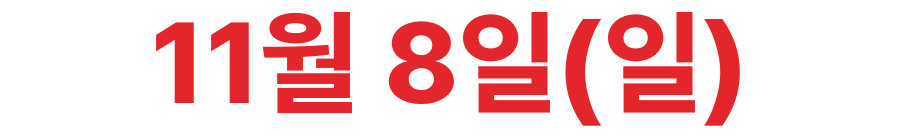
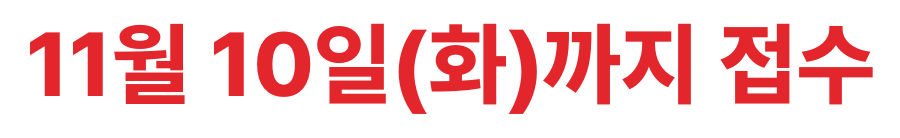
A안 일정 적용: 매월 1~10일 접수, 20일 정리표, 25일 초안, 말일 발급
- mockup: 접수중/기간 아님 표시, 기간 외 신청 잠금, 처리 절차 화살표, 참여사업명 검사 삭제
- deadline.py: 접수 상태 이미지(1~10일 '○월 10일까지 접수', 이후 '다음 달 1일~10일 접수')

Claude-Session: https://claude.ai/code/session_01JgBZWParL1vgAyvDdDWFMD

diff --git a/mockup/index.html b/mockup/index.html
@@ -31,6 +31,22 @@ table.kv{width:100%;border-collapse:collapse;border-top:2px solid var(--ink);fon
 table.kv th,table.kv td{border-bottom:1px solid var(--line2);padding:12px 12px;text-align:left;vertical-align:top}
 table.kv th{width:110px;background:#f6f7f9;font-weight:700;color:var(--ink2);white-space:nowrap}
 .due-big{font-size:30px;font-weight:800;color:var(--red);letter-spacing:-.03em;line-height:1.2}
+.state{display:inline-block;font-size:14px;font-weight:800;padding:4px 10px;border-radius:2px;margin-right:10px;vertical-align:5px}
+.state.on{background:var(--navy);color:#fff}.state.off{background:#9aa3af;color:#fff}
+.due-big.off{color:var(--ink2);font-size:22px}
+.small-red{font-size:13px;color:var(--red);font-weight:700}
+ol.arrow{list-style:none;margin:0;padding:0;display:flex;align-items:stretch;gap:0}
+ol.arrow li{flex:1;position:relative;background:var(--navy-bg);border:1px solid #c9d3e8;padding:12px 10px 12px 22px;margin-right:14px;text-align:left}
+ol.arrow li:first-child{padding-left:12px}
+ol.arrow li:last-child{margin-right:0;background:var(--navy);border-color:var(--navy);color:#fff}
+ol.arrow li:not(:last-child):after{content:"";position:absolute;right:-14px;top:50%;transform:translateY(-50%);border:14px solid transparent;border-left:12px solid var(--navy);border-right:0;width:0;height:0;z-index:1}
+ol.arrow b{display:block;font-size:15px;letter-spacing:-.03em}
+ol.arrow span{display:block;font-size:17px;font-weight:800;color:var(--red);margin-top:2px}
+ol.arrow li:last-child span{color:#fff}
+ol.arrow small{display:block;font-size:12px;color:var(--ink3);margin-top:2px}
+ol.arrow li:last-child small{color:#c9d4ea}
+.menu button.primary.closed{background:#e5e8ec;border-color:#cfd5dd;color:var(--ink3);cursor:not-allowed}
+.menu button.primary.closed small,.menu button.primary.closed .ar{color:var(--ink3)}
 .lead{font-size:17px;font-weight:700;line-height:1.6;margin:16px 0 0;padding:14px 16px;background:var(--navy-bg);border-left:4px solid var(--navy)}
 .lead b{color:var(--navy)}
 /* 홈 메뉴 */
@@ -128,6 +144,7 @@ pre.body{margin:0;white-space:pre-wrap;font:inherit;font-size:14px;line-height:1
 .stopbox .mk{display:inline-block;font-size:14px;font-weight:800;color:#fff;background:var(--red);padding:5px 12px;border-radius:2px;margin-bottom:14px}
 .stopbox h2{margin:0 0 10px;font-size:24px;letter-spacing:-.03em}
 .stopbox p{margin:0 0 6px;font-size:17px;line-height:1.6;color:var(--ink2)}
+.stopbox .redo{margin-top:12px;width:100%;min-height:50px;border:1px solid var(--navy);background:#fff;color:var(--navy);font-size:16px;font-weight:800;border-radius:4px}
 .stopbox .act{margin-top:16px;padding:14px;background:#f6f7f9;font-size:17px;font-weight:800;color:var(--ink)}
 /* 검사 */
 .seg{display:grid;grid-template-columns:1fr 1fr;border:1px solid var(--navy);border-radius:4px;overflow:hidden;margin-bottom:16px}
@@ -146,9 +163,12 @@ table.ox em{font-style:normal;font-size:12px;font-weight:800;color:var(--red);ma
 .toast{position:fixed;left:50%;top:calc(14px + env(safe-area-inset-top));transform:translate(-50%,-16px);background:var(--ink);color:#fff;font-size:15px;font-weight:700;padding:11px 18px;border-radius:3px;opacity:0;transition:.2s;pointer-events:none;z-index:9}
 .toast.show{opacity:1;transform:translate(-50%,0)}
 @media (max-width:600px){
+  ol.arrow{flex-direction:column}
+  ol.arrow li{margin:0 0 14px;padding-left:12px}ol.arrow li:last-child{margin:0}
+  ol.arrow li:not(:last-child):after{right:auto;left:50%;top:auto;bottom:-14px;transform:translateX(-50%);border:12px solid transparent;border-top:12px solid var(--navy);border-bottom:0}
   .head h1{font-size:20px}.q{font-size:22px}
   .flow{grid-template-columns:1fr 1fr}.flow div:nth-child(2){border-right:0}.flow div:nth-child(-n+2){border-bottom:1px solid var(--line2)}
-  table.kv th{width:88px}.due-big{font-size:26px}
+  table.kv th{width:88px}.due-big{font-size:22px}.state{vertical-align:3px}
   .copy-t th{width:auto;display:block;border-bottom:0;padding-bottom:4px;background:none}.copy-t tr{display:grid;grid-template-columns:1fr auto;border-bottom:1px solid var(--line2)}.copy-t th{grid-column:1/-1}.copy-t td{border:0}
   .dock>div{grid-template-columns:90px 1fr}
 }
@@ -166,9 +186,10 @@ table.ox em{font-style:normal;font-size:12px;font-weight:800;color:var(--red);ma
 <!-- 홈 -->
 <section class="screen" data-s="home">
   <div class="panel">
-    <p class="panel-title">접수 일정</p>
+    <p class="panel-title">접수 안내</p>
     <table class="kv">
-      <tr><th>접수 마감</th><td><span class="due-big" id="h-due"></span></td></tr>
+      <tr><th>접수 상태</th><td><span class="state" id="h-state"></span><span class="due-big" id="h-due"></span></td></tr>
+      <tr><th>접수 기간</th><td><b>매월 1일 ~ 10일</b><br><span class="small-red">기간 외에 보낸 신청은 처리하지 않으며 회신하지 않습니다.</span></td></tr>
       <tr><th>일괄 발급</th><td id="h-issue"></td></tr>
       <tr><th>접수 방법</th><td>KBS 웹메일만 접수 (KOBIS 메일 불가)</td></tr>
     </table>
@@ -176,17 +197,12 @@ table.ox em{font-style:normal;font-size:12px;font-weight:800;color:var(--red);ma
   </div>
 
   <div class="menu">
-    <button class="primary" data-go="assoc" id="m-apply"><span class="no">1</span><span class="tx">신청 메일 작성<small>질문에 답하면 신청 메일이 자동으로 작성됩니다</small></span><span class="ar">시작 ›</span></button>
-    <button data-go="write" id="m-write"><span class="no">2</span><span class="tx">참여사업명 검사<small>경력 정리표를 받은 신청자가 초안을 회신하기 전에 사용합니다</small></span><span class="ar">열기 ›</span></button>
+    <button class="primary" data-go="assoc" id="m-apply"><span class="tx">신청 메일 작성<small id="m-apply-sub">질문에 답하면 신청 메일이 자동으로 작성됩니다</small></span><span class="ar" id="m-apply-ar">시작 ›</span></button>
   </div>
 
   <div class="panel">
     <p class="panel-title">처리 절차 (매월 1회)</p>
-    <div class="flow">
-      <div class="me"><b>1주</b><strong>신청 접수</strong><span>일요일 마감</span></div>
-      <div><b>2주</b><strong>경력 정리표 발송</strong><span>담당자 → 신청자</span></div>
-      <div class="me"><b>3주</b><strong>초안 작성·회신</strong><span>신청자가 협회 양식으로 작성</span></div>
-      <div><b>4주</b><strong>검토·직인·발급</strong><span>인사운영부 확인, 총무부 직인</span></div>
+    <ol class="arrow" id="flow"></ol>
     </div>
   </div>
 
@@ -196,7 +212,7 @@ table.ox em{font-style:normal;font-size:12px;font-weight:800;color:var(--red);ma
   </div>
   <div class="links">
     <a href="../">일정·인정 기준·자주 묻는 질문</a>
-    <a href="./mail.html" class="review">[검토용] 2주차 경력 정리표 메일 예시</a>
+    <a href="./mail.html" class="review">[검토용] 경력 정리표 메일 예시</a>
   </div>
 </section>
 
@@ -215,7 +231,7 @@ table.ox em{font-style:normal;font-size:12px;font-weight:800;color:var(--red);ma
   <p class="q-sub"><b id="elec-name"></b>에는 인정되는 경력이 다릅니다.</p>
   <div class="warnbox"><h3>송신소·중계소 근무 기간만 인정합니다.</h3><p>본사·지역국·제작 부서 근무 기간은 경력 정리표에서 빠집니다.</p></div>
   <label class="check"><input type="checkbox" id="elec-ok">위 내용을 확인했습니다.</label>
-  <div class="explain"><b>설명</b>전기 경력은 전기 설비가 있는 송신소·중계소 근무만 인정됩니다. 2주차에 받는 경력 정리표에도 이 기간만 들어갑니다. 송신소·중계소 근무 기간이 없으면 신청해도 발급되지 않습니다.</div>
+  <div class="explain"><b>설명</b>전기 경력은 전기 설비가 있는 송신소·중계소 근무만 인정됩니다. 20일까지 받는 경력 정리표에도 이 기간만 들어갑니다. 송신소·중계소 근무 기간이 없으면 신청해도 발급되지 않습니다.</div>
 </section>
 
 <!-- 2 1년 이내 -->
@@ -274,7 +290,7 @@ table.ox em{font-style:normal;font-size:12px;font-weight:800;color:var(--red);ma
     <button class="opt" data-v="none"><span class="rd"></span><span class="t">기한이 없습니다<small>언제든 제출할 수 있습니다.</small></span></button>
   </div>
   <label class="f" id="wrap-due" hidden><b>제출 기한 <em>*</em></b><input id="f-due" type="date"></label>
-  <div class="explain"><b>설명</b>경력확인서는 <strong>매월 마지막 주에 한꺼번에</strong> 발급합니다. 제출 기한이 발급일보다 빠르면 신청할 수 없습니다. 급행 발급은 하지 않습니다.</div>
+  <div class="explain"><b>설명</b>경력확인서는 <strong>매월 말일까지 한꺼번에</strong> 발급합니다. 제출 기한이 그달 말일보다 빠르면 신청할 수 없습니다. 급행 발급은 하지 않습니다.</div>
 </section>
 
 <!-- 7 공사감독 -->
@@ -323,19 +339,10 @@ table.ox em{font-style:normal;font-size:12px;font-weight:800;color:var(--red);ma
   <div class="stopbox"><span class="mk">신청 불가</span><h2>1년 안에 다시 신청할 수 없습니다.</h2><p>같은 협회 제출용은 1년에 1회만 발급합니다.</p><div class="act">기존에 발급받은 경력확인서를 사용하십시오.</div></div>
 </section>
 <section class="screen" data-s="stop-due" hidden>
-  <div class="stopbox"><span class="mk">신청 불가</span><h2>제출 기한 내 발급이 불가합니다.</h2><p id="due-why"></p><div class="act">급행 발급은 하지 않습니다.</div></div>
+  <div class="stopbox"><span class="mk">신청 불가</span><h2>제출 기한 내 발급이 불가합니다.</h2><p id="due-why"></p><div class="act">급행 발급은 하지 않습니다.</div><button class="redo" data-go="due" id="redo-due">제출 기한 다시 입력</button></div>
 </section>
 
-<!-- 참여사업명 검사 -->
-<section class="screen" data-s="write" hidden>
-  <h2 class="q">참여사업명 검사</h2>
-  <p class="q-sub">경력 정리표의 담당업무를 확인하고 선택하십시오. 작성한 참여사업명을 붙여넣으면 바로 검사합니다.</p>
-  <div class="seg" id="seg"><button class="on" data-kind="m">유지관리</button><button data-kind="w">공사감독</button></div>
-  <label class="f"><b>참여사업명</b><textarea id="w-text" placeholder="한 줄에 하나씩 입력"></textarea></label>
-  <div class="result idle" id="w-result">검사 결과가 여기에 표시됩니다.</div>
-  <div class="warnbox"><h3>참여사업명 외 다른 칸은 고치지 마십시오.</h3><p>근무기간·부서·직위·담당업무는 경력 정리표 그대로 옮겨 씁니다. 날짜 표기 방식만 협회 양식에 맞춰 바꿀 수 있습니다.</p></div>
-  <div class="panel"><p class="panel-title">작성 예시</p><table class="ox" id="ox"></table></div>
-</section>
+
 </main>
 
 <div class="dock" id="dock" hidden><div>
@@ -352,22 +359,18 @@ const ASSOC = {
   elec: ['한국전기공사협회', '한국전기기술인협회'],
   etc: ['한국기술사회', '한국엔지니어링협회', '한국건설기술인협회', '대한기계설비건설협회', '한국인터넷진흥원(ISMS-P)', '한국산업기술진흥협회'],
 };
-const NG = ['구축', '감독', '설계', '공사', '시공', '감리'], CHK = ['설치', '이설', '교체'], VAGUE = ['유지관리', '업무 전반', '전반', '각종', '등 업무'];
-const EX = {
-  m: { o: ['관악산송신소 TV·FM 송신시설 운영 및 유지관리', '주조정실 방송장비 점검 및 운용', '중계소 송신설비 정기점검 및 장애 복구'], x: [['UHD 송신시설 구축', '구축'], ['송신기 교체공사 감독', '공사, 감독'], ['원격제어 시스템 설계', '설계']] },
-  w: { o: ['○○송신소 UHD 송신시설 구축공사 (6.2억)', '노후 FM 송신기 11식 교체공사', '제작편집실 디지털화 공사 (1.1억)'], x: [['방송시설 유지관리', '사업명 아님'], ['송신소 업무 전반', '사업명 아님'], ['신청 메일에 없던 사업', '추가 불가']] },
-};
+const VAGUE = ['유지관리', '업무 전반', '전반', '각종', '등 업무'];
 
-// ───── 날짜: 매월 첫째 주(첫 수요일이 든 주) 일요일 마감 ─────
-const DAY = 864e5, WD = '일월화수목금토', add = (d, n) => new Date(d.getFullYear(), d.getMonth(), d.getDate() + n);
-const deadlineOf = (y, m) => { const f = new Date(y, m, 1); return add(f, (3 - f.getDay() + 7) % 7 + 4); };
-const now = new Date(), today = new Date(now.getFullYear(), now.getMonth(), now.getDate());
-function cycleFor(t) { let d = deadlineOf(t.getFullYear(), t.getMonth()); if (t > d) d = deadlineOf(t.getFullYear(), t.getMonth() + 1); const mon = add(d, -6); return { d, m: d.getMonth() + 1, mon, send: [add(mon, 7), add(mon, 13)], replyBy: add(mon, 20), issue: [add(mon, 21), add(mon, 27)] }; }
-const kd = d => `${d.getMonth() + 1}월 ${d.getDate()}일(${WD[d.getDay()]})`, sd = d => `${d.getMonth() + 1}.${d.getDate()}.`;
-const C = cycleFor(today);
-const prevD = (() => { const d = deadlineOf(today.getFullYear(), today.getMonth()); return today > d ? d : deadlineOf(today.getFullYear(), today.getMonth() - 1); })();
-const weekNo = Math.floor((today - add(prevD, -6)) / DAY / 7) + 1;
-const issueTxt = `${C.m}월 마지막 주(${sd(C.issue[0])} ~ ${sd(C.issue[1])})`;
+// ───── 날짜 (A안): 1~10일 접수 → 20일 정리표 → 25일 초안 회신 → 말일 발급 ─────
+const WD = '일월화수목금토';
+const q = new URLSearchParams(location.search).get('date');          // 검토용: ?date=2026-11-15
+const now = q ? new Date(q + 'T00:00') : new Date(), today = new Date(now.getFullYear(), now.getMonth(), now.getDate());
+const dt = (y, m, d) => new Date(y, m, d), lastDay = (y, m) => new Date(y, m + 1, 0);
+const kd = d => `${d.getMonth() + 1}월 ${d.getDate()}일(${WD[d.getDay()]})`;
+function cycle(y, m) { return { m: m + 1, open: dt(y, m, 1), close: dt(y, m, 10), send: dt(y, m, 20), reply: dt(y, m, 25), issue: lastDay(y, m) }; }
+const OPEN = today.getDate() <= 10;
+const C = cycle(today.getFullYear(), today.getMonth());                       // 이번 달 주기
+const N = cycle(today.getFullYear(), today.getMonth() + (OPEN ? 0 : 1));        // 다음에 신청할 수 있는 주기
 
 // ───── 상태 ─────
 const $ = id => document.getElementById(id);
@@ -377,10 +380,21 @@ let cur = 'home'; const hist = [];
 document.querySelectorAll('.mail-addr').forEach(e => e.textContent = MAIL);
 
 // 홈
-$('h-due').textContent = kd(C.d);
-$('h-issue').innerHTML = `<b>${issueTxt}</b>`;
-$('h-lead').innerHTML = `지금 신청하면 <b>${issueTxt}</b>에 경력확인서를 일괄 발급합니다.`;
-if (weekNo === 2 || weekNo === 3) $('m-write').insertAdjacentHTML('beforeend', `<span class="tag">초안 회신 기한 ${kd(add(prevD, 14))}</span>`);
+if (OPEN) {
+  $('h-state').textContent = '접수중'; $('h-state').className = 'state on';
+  $('h-due').textContent = `${kd(C.close)}까지`;
+  $('h-issue').innerHTML = `<b>${kd(C.issue)}까지</b>`;
+  $('h-lead').innerHTML = `지금 신청하면 <b>${C.m}월 ${C.issue.getDate()}일까지</b> 경력확인서를 일괄 발급합니다.`;
+} else {
+  $('h-state').textContent = '접수 기간 아님'; $('h-state').className = 'state off';
+  $('h-due').textContent = `다음 접수 ${N.m}월 1일 ~ 10일`; $('h-due').classList.add('off');
+  $('h-issue').innerHTML = `다음 발급: <b>${kd(N.issue)}까지</b>`;
+  $('h-lead').innerHTML = `지금은 접수 기간이 아닙니다. <b>${N.m}월 1일</b>부터 신청하십시오.`;
+  $('m-apply').disabled = true; $('m-apply').classList.add('closed');
+  $('m-apply-sub').textContent = `${N.m}월 1일 0시에 열립니다.`; $('m-apply-ar').textContent = '잠김';
+}
+$('flow').innerHTML = [['신청', `1일 ~ 10일`, '신청자'], ['경력 정리표 발송', `20일까지`, '담당자 → 신청자'], ['초안 작성·회신', `25일까지`, '신청자'], ['일괄 발급', '말일까지', '검토·직인 후 PDF']]
+  .map(([t, d, w]) => `<li><b>${t}</b><span>${d}</span><small>${w}</small></li>`).join('');
 
 // 화면 이동
 function go(name, push = true) {
@@ -493,7 +507,7 @@ $('next').onclick = () => {
     case 'due':
       if (v.duekind === 'date') {
         const [y, m, d] = $('f-due').value.split('-').map(Number), due = new Date(y, m - 1, d);
-        if (due <= C.issue[1]) { $('due-why').innerHTML = `지금 신청하면 <b>${issueTxt}</b>에 발급합니다.<br>제출 기한 ${kd(due)}보다 늦습니다.`; return go('stop-due'); }
+        if (due <= C.issue) { $('due-why').innerHTML = `지금 신청하면 <b>${kd(C.issue)}까지</b> 발급합니다.<br>제출 기한 ${kd(due)}보다 늦습니다.`; return go('stop-due'); }
       }
       return go('works');
     case 'works': return go('done');
@@ -512,9 +526,9 @@ function render() {
     `협회 제출 기한: ${v.duekind === 'none' ? '없음' : $('f-due').value.replaceAll('-', '.') + '.'}`,
     ws.length ? '공사감독: 있음' : '공사감독: 없음', ...ws.map(w => `- ${w.period} / ${w.name}${w.doc ? ' / ' + w.doc : ''}`)].join('\n');
   $('o-subject').textContent = out.subject; $('o-body').textContent = out.body;
-  $('o-next').innerHTML = `<tr><th>${C.m}월 둘째 주</th><td>담당자가 <b>경력 정리표</b>를 웹메일로 보냅니다.</td></tr>
-    <tr><th>${kd(C.replyBy)}까지</th><td>경력 정리표를 보고 <b>협회 양식으로 초안을 작성</b>하여 회신합니다. (HWPX 또는 DOCX)</td></tr>
-    <tr><th>${C.m}월 마지막 주</th><td>검토와 직인을 거쳐 <b>PDF로 일괄 발급</b>합니다.</td></tr>`;
+  $('o-next').innerHTML = `<tr><th>${kd(C.send)}까지</th><td>담당자가 <b>경력 정리표</b>를 웹메일로 보냅니다.</td></tr>
+    <tr><th>${kd(C.reply)}까지</th><td>경력 정리표를 보고 <b>협회 양식으로 초안을 작성</b>하여 회신합니다. (HWPX 또는 DOCX)</td></tr>
+    <tr><th>${kd(C.issue)}까지</th><td>검토와 직인을 거쳐 <b>PDF로 일괄 발급</b>합니다.</td></tr>`;
   document.querySelectorAll('.cbtn').forEach(b => { b.classList.remove('done'); b.textContent = '복사'; });
 }
 document.querySelectorAll('.cbtn').forEach(b => b.onclick = async () => {
@@ -525,29 +539,6 @@ document.querySelectorAll('.cbtn').forEach(b => b.onclick = async () => {
 });
 let tt; function toast(m) { const t = $('toast'); t.textContent = m; t.classList.add('show'); clearTimeout(tt); tt = setTimeout(() => t.classList.remove('show'), 1500); }
 
-// 참여사업명 검사
-let kind = 'm';
-$('seg').onclick = e => { const b = e.target.closest('[data-kind]'); if (!b) return; kind = b.dataset.kind; $('seg').querySelectorAll('button').forEach(x => x.classList.toggle('on', x === b)); check(); ox(); };
-$('w-text').oninput = check;
-const esc = s => s.replace(/[&<>]/g, c => ({ '&': '&amp;', '<': '&lt;', '>': '&gt;' }[c]));
-function check() {
-  const lines = $('w-text').value.split('\n').map(s => s.trim()).filter(Boolean), r = $('w-result');
-  if (!lines.length) { r.className = 'result idle'; r.textContent = '검사 결과가 여기에 표시됩니다.'; return; }
-  let bad = 0, warn = 0;
-  const html = lines.map(l => {
-    let h = esc(l);
-    if (kind === 'm') {
-      NG.forEach(k => { if (l.includes(k)) { bad++; h = h.replaceAll(k, `<mark>${k}</mark>`); } });
-      CHK.forEach(k => { if (l.includes(k)) { warn++; h = h.replaceAll(k, `<mark class="w">${k}</mark>`); } });
-    } else if (VAGUE.some(k => l.includes(k)) && !/공사|구축|교체|설치|사업/.test(l)) { bad++; h = `<mark>${h}</mark>`; }
-    return h;
-  }).join('<br>');
-  if (bad) { r.className = 'result ng'; r.innerHTML = (kind === 'm' ? '반려 대상: 빨간 단어를 삭제하십시오.' : '반려 대상: 사업명을 정확히 입력하십시오.') + `<div class="lines">${html}</div>`; }
-  else if (warn) { r.className = 'result warn'; r.innerHTML = `확인 필요: 노란 단어는 유지보수 업무인 경우에만 사용합니다.<div class="lines">${html}</div>`; }
-  else { r.className = 'result ok'; r.innerHTML = `이상 없음: 이대로 초안에 쓰십시오.<div class="lines">${html}</div>`; }
-}
-function ox() { const e = EX[kind]; $('ox').innerHTML = e.o.map(t => `<tr class="o"><td class="m">O</td><td>${t}</td></tr>`).join('') + e.x.map(([t, w]) => `<tr class="x"><td class="m">X</td><td><s>${t}</s><em>${w}</em></td></tr>`).join(''); }
-ox();
 </script>
 </body>
 </html>

diff --git a/mockup/mail.html b/mockup/mail.html
@@ -52,7 +52,7 @@ ul.plain li{margin:4px 0}
 </style>
 </head>
 <body>
-<div class="note">[검토용 예시] 2주차에 신청자에게 보내는 메일 모습입니다. 이름·사번·경력은 가상입니다.<a href="./">← 신청 화면</a></div>
+<div class="note">[검토용 예시] 매월 20일까지 신청자에게 보내는 메일 모습입니다. 이름·사번·경력은 가상입니다.<a href="./">← 신청 화면</a></div>
 <div class="wrap"><div class="mail">
   <div class="mh">
     <h1 id="subj"></h1>
@@ -105,7 +105,7 @@ ul.plain li{margin:4px 0}
       <tr><td class="nw">유지관리</td><td>○○송신소 TV·FM 송신시설 운영 및 유지관리<br>주조정실 방송장비 점검 및 운용</td><td>UHD 송신시설 <b>구축</b><br>송신기 교체<b>공사 감독</b></td></tr>
       <tr><td class="nw">공사감독</td><td>○○송신소 UHD 송신시설 구축공사 (6.2억)</td><td>방송시설 유지관리<br>신청 메일에 없던 사업</td></tr>
     </table>
-    <p class="legend">작성한 참여사업명은 신청 페이지의 "참여사업명 검사"에 붙여넣어 미리 확인할 수 있습니다.</p>
+    <p class="legend">유지관리 칸에 <b>구축·감독·설계·공사·시공·감리</b>가 한 글자라도 들어가면 반려합니다. "설치·이설·교체"는 유지보수 업무일 때만 씁니다.</p>
 
     <h3>회신 방법</h3>
     <ul class="plain">
@@ -124,16 +124,14 @@ ul.plain li{margin:4px 0}
   </div>
 </div></div>
 <script>
-const WD = '일월화수목금토', add = (d, n) => new Date(d.getFullYear(), d.getMonth(), d.getDate() + n);
-const deadlineOf = (y, m) => { const f = new Date(y, m, 1); return add(f, (3 - f.getDay() + 7) % 7 + 4); };
-const t = new Date(); const td = new Date(t.getFullYear(), t.getMonth(), t.getDate());
-let d = deadlineOf(td.getFullYear(), td.getMonth()); if (td > d) d = deadlineOf(td.getFullYear(), td.getMonth() + 1);
-const mon = add(d, -6), reply = add(mon, 20), i0 = add(mon, 21), i1 = add(mon, 27);
-const kd = x => `${x.getMonth() + 1}월 ${x.getDate()}일(${WD[x.getDay()]})`, sd = x => `${x.getMonth() + 1}.${x.getDate()}.`;
+const WD = '일월화수목금토', q = new URLSearchParams(location.search).get('date');
+const t = q ? new Date(q + 'T00:00') : new Date(), y = t.getFullYear(), m = t.getMonth() + (t.getDate() <= 10 ? 0 : 1);
+const reply = new Date(y, m, 25), issue = new Date(y, m + 1, 0);
+const kd = x => `${x.getMonth() + 1}월 ${x.getDate()}일(${WD[x.getDay()]})`;
 document.getElementById('subj').textContent = `[경력확인서] 경력 정리표 송부 및 초안 작성 요청 (${kd(reply)}까지 회신)`;
 document.getElementById('reply-by').textContent = kd(reply);
 document.getElementById('reply-by2').textContent = `${kd(reply)} 24시`;
-document.getElementById('issue').textContent = `${d.getMonth() + 1}월 마지막 주(${sd(i0)} ~ ${sd(i1)})`;
+document.getElementById('issue').textContent = `${kd(issue)}까지`;
 </script>
 </body>
 </html>

diff --git a/tools/deadline.py b/tools/deadline.py
@@ -1,10 +1,12 @@
 """
-다음 접수 마감일 이미지 생성 (GitHub Actions가 매일 00:01 KST 실행)
-  static/deadline.png  : 내 정보 박스에 거는 이미지 (빨간 날짜)
+접수 상태 이미지 생성 (GitHub Actions가 매일 00:01 KST 실행)
+  static/deadline.png  : 내 정보 박스에 거는 이미지 (빨간 글씨)
   static/deadline.json : 날짜 데이터
-규칙: 매월 첫째 주(그달 첫 수요일이 든 월~일) 일요일 마감. 마감 다음 날부터 다음 달 마감일 표시.
+규칙(A안): 매월 1~10일 접수 → 20일 경력 정리표 발송 → 25일 초안 회신 → 말일 일괄 발급
+  1~10일  : "11월 10일(화)까지 접수"
+  11일~말일: "12월 1일 ~ 10일 접수"
 """
-import json, datetime as dt
+import json, calendar, datetime as dt
 from pathlib import Path
 from PIL import Image, ImageDraw, ImageFont
 
@@ -13,33 +15,36 @@ FONT = ROOT / "tools" / "Pretendard-ExtraBold.otf"
 WD = "월화수목금토일"
 
 
-def deadline_of(y, m):
-    y, m = y + (m - 1) // 12, (m - 1) % 12 + 1
-    first = dt.date(y, m, 1)
-    return first + dt.timedelta((2 - first.weekday()) % 7 + 4)
-
-
-def next_deadline(today):
-    d = deadline_of(today.year, today.month)
-    return d if today <= d else deadline_of(today.year, today.month + 1)
+def status(today):
+    if today.day <= 10:
+        close = today.replace(day=10)
+        return {"open": True, "close": close.isoformat(),
+                "issue": today.replace(day=calendar.monthrange(today.year, today.month)[1]).isoformat(),
+                "label": f"{close.month}월 {close.day}일({WD[close.weekday()]})까지 접수"}
+    y, m = (today.year + 1, 1) if today.month == 12 else (today.year, today.month + 1)
+    return {"open": False, "next_open": dt.date(y, m, 1).isoformat(), "close": dt.date(y, m, 10).isoformat(),
+            "label": f"{m}월 1일 ~ 10일 접수"}
 
 
 def main():
     today = dt.datetime.now(dt.timezone(dt.timedelta(hours=9))).date()      # 한국 날짜
-    d = next_deadline(today)
-    text = f"{d.month}월 {d.day}일({WD[d.weekday()]})"
-
+    st = status(today)
+    text = st["label"]
     S = 3                                    # 3배 해상도 (표시 300x46)
     W, H = 300 * S, 46 * S
     img = Image.new("RGBA", (W, H), (0, 0, 0, 0))
     draw = ImageDraw.Draw(img)
-    font = ImageFont.truetype(str(FONT), 38 * S)
-    l, t, r, b = draw.textbbox((0, 0), text, font=font)
-    draw.text(((W - (r - l)) / 2 - l, (H - (b - t)) / 2 - t), text, font=font, fill=(227, 38, 43, 255))
+    size = 34 * S
+    while True:                              # 폭에 맞을 때까지 글자 크기 축소
+        font = ImageFont.truetype(str(FONT), size)
+        l, t, r, b = draw.textbbox((0, 0), text, font=font)
+        if r - l <= W - 8 * S or size <= 18 * S: break
+        size -= S
+    color = (227, 38, 43, 255) if st["open"] else (75, 85, 99, 255)
+    draw.text(((W - (r - l)) / 2 - l, (H - (b - t)) / 2 - t), text, font=font, fill=color)
     out = ROOT / "static"
     img.save(out / "deadline.png", optimize=True)
-    (out / "deadline.json").write_text(json.dumps(
-        {"deadline": d.isoformat(), "label": text}, ensure_ascii=False) + "\n", encoding="utf-8")
+    (out / "deadline.json").write_text(json.dumps(st, ensure_ascii=False) + "\n", encoding="utf-8")
     print(today, "→", text)
 
 
